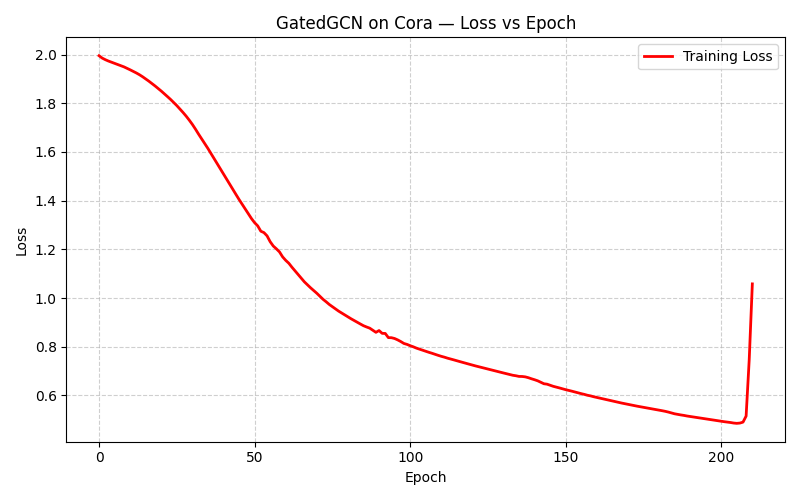
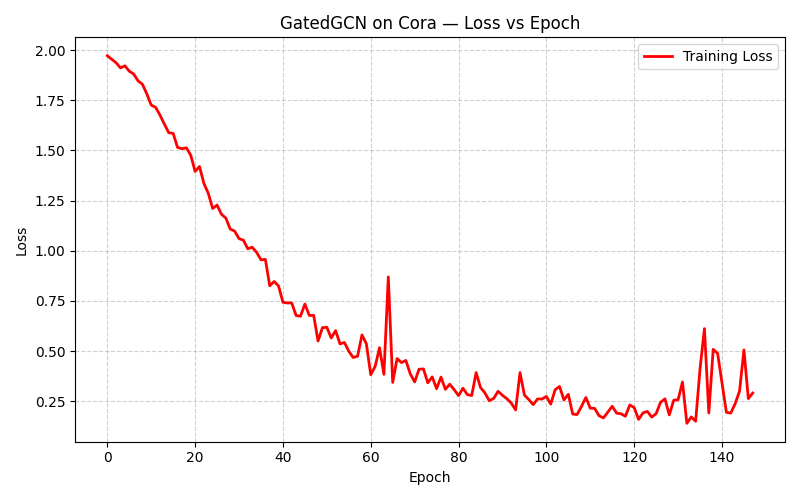
revise

diff --git a/train.py b/train.py
@@ -94,13 +94,50 @@ def get_cora_config(model_name='GAT'):
 
     if model_name == 'GAT':
         base['heads'] = [8, 1]
-        base['in_dim']=1433
-        base['out_dim']=7
+        base['in_dim'] = 1433
+        base['out_dim'] = 7
+
     elif model_name == 'GCN':
         base['hidden_channels'] = 16
-    elif model_name == 'LSTM':
-        base['dropout'] = 0.4
-        base['lr'] = 0.002
+        base['dropout'] = 0.5
+        base['lr'] = 0.01
+        base['conv1_weight_decay'] = 5e-4
+
+    elif model_name == 'ChebNet':
+        base['hidden_channels'] = 16
+        base['dropout'] = 0.5
+        base['lr'] = 0.01
+        base['conv1_weight_decay'] = 5e-4
+
+    elif model_name == 'GraphSAGE':
+        base['hidden_channels'] = 128
+        base['dropout'] = 0.5
+        base['lr'] = 0.01
+        base['conv1_weight_decay'] = 5e-4
+
+    elif model_name == 'GraphSAGE-Mean':
+        base['hidden_channels'] = 128
+        base['dropout'] = 0.5
+        base['lr'] = 0.01
+        base['conv1_weight_decay'] = 5e-4
+
+    elif model_name == 'GraphSAGE-Pooling':
+        base['hidden_channels'] = 128
+        base['dropout'] = 0.5
+        base['lr'] = 0.01
+        base['conv1_weight_decay'] = 5e-4
+
+    elif model_name == 'GatedGCN':
+        base['hidden_channels'] = 32
+        base['num_layers'] = 3
+        base['dropout'] = 0.5
+        base['lr'] = 0.01
+        base['conv1_weight_decay'] = 5e-4
+
+    elif model_name == 'SemiEmb':
+        base['lr'] = 0.01
+        base['conv1_weight_decay'] = 5e-4
+
     return base
 
 def plot_metrics(epoch_metrics: dict, model_name: str, dataset_name: str) -> None:
@@ -248,5 +285,5 @@ def main(dataset_name: str = 'Cora', model_name: str = 'ChebNet', seed: int = 42
 
 if __name__ == '__main__':
     dataset_name = 'Cora'
-    model_name = 'GatedGCN'  # Change to 'GAT','GCN', 'GraphSAGE', 'GatedGCN', 'ChebNet', 'SemiEmb', 'GraphSAGE-Mean', 'GraphSAGE-Pooling'
+    model_name = 'SemiEmb'  # Change to 'GAT','GCN', 'GraphSAGE', 'GatedGCN', 'ChebNet', 'SemiEmb', 'GraphSAGE-Mean', 'GraphSAGE-Pooling'
     main(dataset_name=dataset_name, model_name=model_name)

diff --git a/gat.py b/gat.py
@@ -7,17 +7,14 @@ class GAT(nn.Module):
     def __init__(self, in_channels, hidden_channels, out_channels, heads=(8, 1), dropout=0.6):
         super(GAT, self).__init__()
         self.dropout = dropout
+        self.attn_weights = None
 
-        # First GAT layer: Multi-head attention, outputs concatenated
-        self.conv1 = GATConv(in_channels, hidden_channels,heads=heads[0], concat=True, dropout=dropout)
-
-        # Second GAT layer: Single-head attention, outputs averaged (not concatenated)
+        self.conv1 = GATConv(in_channels, hidden_channels, heads=heads[0], concat=True, dropout=dropout)
         self.conv2 = GATConv(hidden_channels * heads[0], out_channels, heads=heads[1], concat=False, dropout=dropout)
 
         self.reset_parameters()
 
     def reset_parameters(self):
-        """Xavier initialization as suggested in the original GAT paper."""
         for m in self.modules():
             if isinstance(m, (nn.Linear, GATConv)):
                 if hasattr(m, 'weight') and m.weight is not None:
@@ -26,16 +23,11 @@ class GAT(nn.Module):
                     nn.init.zeros_(m.bias)
 
     def forward(self, x, edge_index):
-        # Input feature dropout
         x = F.dropout(x, p=self.dropout, training=self.training)
-        
-        # First GAT layer with ELU
-        x = self.conv1(x, edge_index)
+        x, attn1 = self.conv1(x, edge_index, return_attention_weights=True)
         x = F.elu(x)
-
-        # Dropout before final layer
         x = F.dropout(x, p=self.dropout, training=self.training)
-        x = self.conv2(x, edge_index)
+        x, attn2 = self.conv2(x, edge_index, return_attention_weights=True)
 
-        # Log-softmax for classification
+        self.attn_weights = (attn1, attn2)
         return F.log_softmax(x, dim=1)

diff --git a/gated_gcn.py b/gated_gcn.py
@@ -1,21 +1,22 @@
 import torch
+import torch.nn as nn
 import torch.nn.functional as F
 from torch_geometric.nn import GatedGraphConv
 
 
-class GatedGCN(torch.nn.Module):
-    def __init__(self, in_channels, hidden_channels, out_channels, num_layers=2):
+class GatedGCN(nn.Module):
+    def __init__(self, in_channels, hidden_channels, out_channels, num_layers=3, dropout=0.5):
         super(GatedGCN, self).__init__()
-        self.convs = torch.nn.ModuleList()
-        self.convs.append(GatedGraphConv(
-            out_channels=hidden_channels, num_layers=num_layers))
-        self.linear_in = torch.nn.Linear(in_channels, hidden_channels)
-        self.linear_out = torch.nn.Linear(hidden_channels, out_channels)
+        self.dropout = dropout
+        self.input_proj = nn.Linear(in_channels, hidden_channels)
+        self.gated_conv = GatedGraphConv(out_channels=hidden_channels, num_layers=num_layers)
+        self.output_proj = nn.Linear(hidden_channels, out_channels)
 
     def forward(self, x, edge_index):
-        x = self.linear_in(x)
-        for conv in self.convs:
-            x = conv(x, edge_index)
-            x = F.relu(x)
-        x = self.linear_out(x)
+        x = F.dropout(x, p=self.dropout, training=self.training)
+        x = self.input_proj(x)
+        x = self.gated_conv(x, edge_index)
+        x = F.relu(x)
+        x = F.dropout(x, p=self.dropout, training=self.training)
+        x = self.output_proj(x)
         return F.log_softmax(x, dim=1)

diff --git a/semiemb.py b/semiemb.py
@@ -1,10 +1,13 @@
 import torch
 import torch.nn as nn
+import torch.nn.functional as F
+
 
 class SemiEmb(nn.Module):
     def __init__(self, in_channels, out_channels):
         super(SemiEmb, self).__init__()
-        self.linear = nn.Linear(in_channels, out_channels)
+        self.embedding = nn.Linear(in_channels, out_channels)
 
-    def forward(self, x, edge_index=None):  # edge_index unused, kept for compatibility
-        return torch.log_softmax(self.linear(x), dim=1)
+    def forward(self, x, edge_index=None):
+        x = self.embedding(x)
+        return F.log_softmax(x, dim=1)

diff --git a/chebnet.py b/chebnet.py
@@ -4,7 +4,7 @@ from torch_geometric.nn import ChebConv
 
 
 class ChebNet(torch.nn.Module):
-    def __init__(self, in_channels, hidden_channels, out_channels, dropout=0.6, K=3):
+    def __init__(self, in_channels, hidden_channels, out_channels, dropout=0.5, K=3):
         super(ChebNet, self).__init__()
         self.dropout = dropout
         self.conv1 = ChebConv(in_channels, hidden_channels, K)
